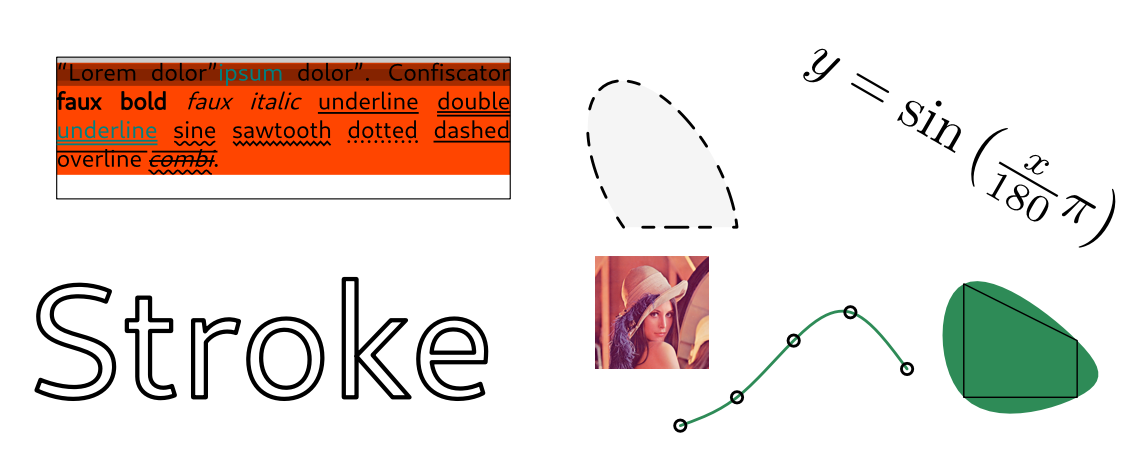
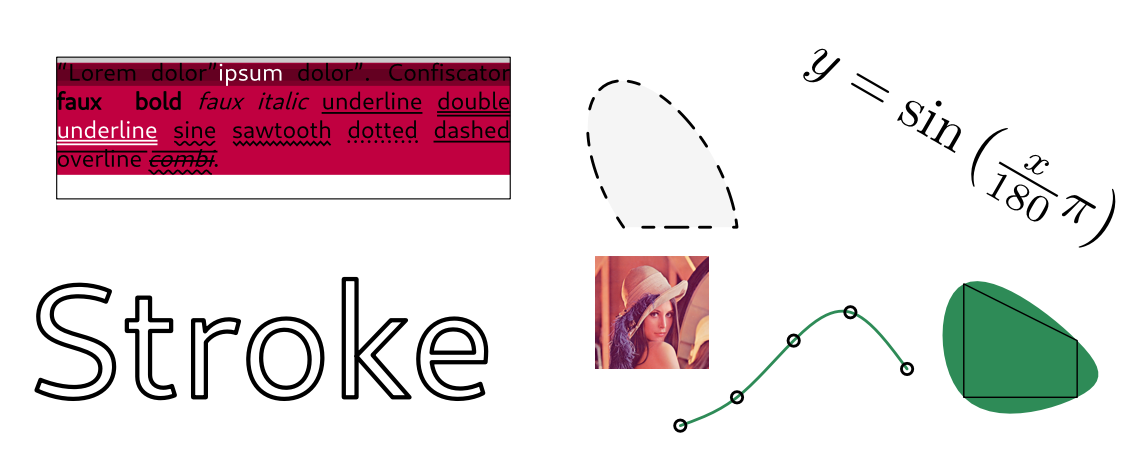
Small improvements, added title image

Changed region(s): [[0.0309, 0.1233, 0.463, 0.4009]]

diff --git a/text.go b/text.go
@@ -55,7 +55,6 @@ type Text struct {
 }
 
 func NewTextLine(ff FontFace, s string, halign TextAlign) *Text {
-	// TODO: use halign
 	s = replaceMultipleWhitespace(s)
 	s, _, _ = ff.font.substituteTypography(s, false, false)
 
@@ -69,9 +68,16 @@ func NewTextLine(ff FontFace, s string, halign TextAlign) *Text {
 			j := boundary.pos + boundary.size
 			if i < j {
 				l := line{y: y}
-				l.spans = append(l.spans, newTextSpan(ff, s, i))
+				span := newTextSpan(ff, s, i)
+				if halign == Center {
+					span.dx = -span.width / 2.0
+				} else if halign == Right {
+					span.dx = -span.width
+				}
+
+				l.spans = append(l.spans, span)
 				if len(ff.deco) != 0 {
-					l.decos = append(l.decos, decoSpan{ff, 0.0, l.spans[0].width})
+					l.decos = append(l.decos, decoSpan{ff, span.dx, span.dx + span.width})
 				}
 				lines = append(lines, l)
 			}
@@ -95,7 +101,6 @@ type RichText struct {
 }
 
 func NewRichText() *RichText {
-	// TODO: allow for default font and use font face modifiers (color, style, faux style, decorations)
 	return &RichText{
 		fonts: map[*Font]bool{},
 	}
@@ -556,7 +561,6 @@ func (t *Text) WriteSVG(w io.Writer, x, y, rot float64) {
 	decorations := []pathLayer{}
 	for _, line := range t.lines {
 		for _, span := range line.spans {
-			// TODO: sentence spacing
 			fmt.Fprintf(w, `<tspan x="%g" y="%g`, x+span.dx, y-line.y-span.ff.voffset)
 			if span.wordSpacing > 0.0 {
 				fmt.Fprintf(w, `" word-spacing="%g`, span.wordSpacing)
@@ -582,10 +586,7 @@ func (t *Text) WriteSVG(w io.Writer, x, y, rot float64) {
 }
 
 // WritePDF will write out the text in the PDF file format.
-func (t *Text) WritePDF(w *PDFPageWriter, m Matrix) {
-	x0, y0 := m.DecomposePos()
-	rot := m.DecomposeRot()
-
+func (t *Text) WritePDF(w *PDFPageWriter, x0, y0, rot float64) {
 	// TODO: use PDF functions to keep track of current state (different from state outsite BT)
 
 	fmt.Fprintf(w, ` BT`)
@@ -667,7 +668,6 @@ func (t *Text) WritePDF(w *PDFPageWriter, m Matrix) {
 }
 
 // TODO: Text.WriteEPS
-// TODO: Text.WriteImage
 
 ////////////////////////////////////////////////////////////////
 
@@ -695,7 +695,6 @@ type textSpan struct {
 
 // TODO: add newPathSpan
 
-// TODO: proper transformation of typographic elements, ie. including surrounding text
 func newTextSpan(ff FontFace, text string, i int) textSpan {
 	altText := text[i:]
 	altWidth := ff.TextWidth(text[i:])
@@ -931,7 +930,6 @@ func isNewline(r rune) bool {
 }
 
 func isWhitespace(r rune) bool {
-	// TODO: add breaking spaces such as en quad, em space, hair space, ...
 	// see https://unicode.org/reports/tr14/#Properties
-	return r == ' ' || r == '\t' || isNewline(r)
+	return unicode.IsSpace(r) || r == '\t' || r == '\u2028' || r == '\u2029'
 }

diff --git a/example/test.go b/example/test.go
@@ -14,7 +14,7 @@ var dejaVuSerif *canvas.FontFamily
 func main() {
 	dejaVuSerif = canvas.NewFontFamily("dejavu-serif")
 	dejaVuSerif.Use(canvas.CommonLigatures)
-	if err := dejaVuSerif.LoadFontFile("DejaVuSerif.woff", canvas.FontRegular); err != nil {
+	if err := dejaVuSerif.LoadFontFile("DejaVuSerif.ttf", canvas.FontRegular); err != nil {
 		panic(err)
 	}
 
@@ -75,10 +75,10 @@ func drawStrokedPath(c *canvas.Canvas, x, y, d float64, path string) {
 }
 
 func Draw(c *canvas.Canvas) {
-	p, _ := canvas.ParseSVG(fmt.Sprintf("A30.0 60.0 120.0 0 0 120.0 0.0H60"))
-	f := p.Flatten().Stroke(1.0, canvas.ButtCapper, canvas.MiterJoiner)
-	c.SetFillColor(color.RGBA{0, 0, 128, 128})
-	c.DrawPath(10.0, 10.0, f)
+	//p, _ := canvas.ParseSVG(fmt.Sprintf("A30.0 60.0 120.0 0 0 120.0 0.0H60"))
+	//f := p.Flatten().Stroke(1.0, canvas.ButtCapper, canvas.MiterJoiner)
+	//c.SetFillColor(color.RGBA{0, 0, 128, 128})
+	//c.DrawPath(10.0, 10.0, f)
 
 	//c.SetFillColor(color.RGBA{0, 128, 0, 128})
 	//for _, marker := range p.Markers(canvas.Rectangle(-2, -2, 4, 4), canvas.Circle(2), canvas.RegularPolygon(6, 2, true), true) {
@@ -182,8 +182,8 @@ func Draw(c *canvas.Canvas) {
 	//c.DrawPath(10, 70, 0.0, text.ToPath().Scale(2.0, 2.0))
 	//c.DrawPath(10, 70, 0.0, text.ToPathDecorations().Scale(2.0, 2.0))
 
-	//face := dejaVuSerif.Face(12.0, canvas.Black, canvas.FontBook, canvas.FontNormal)
-	//c.DrawText(10, 10, canvas.NewTextLine(face, "oops", canvas.Left))
-	//face = dejaVuSerif.Face(12.0, canvas.Black, canvas.FontRegular, canvas.FontNormal)
-	//c.DrawText(40, 10, canvas.NewTextLine(face, "oops", canvas.Left))
+	face := dejaVuSerif.Face(12.0, canvas.Black, canvas.FontBook, canvas.FontNormal, canvas.FontUnderline)
+	c.DrawText(40, 15, canvas.NewTextLine(face, "oops", canvas.Left))
+	face = dejaVuSerif.Face(12.0, canvas.Black, canvas.FontRegular, canvas.FontNormal, canvas.FontUnderline)
+	c.DrawText(40, 10, canvas.NewTextLine(face, "oops", canvas.Center))
 }

diff --git a/example/example.go b/example/example.go
@@ -75,7 +75,7 @@ func drawText(c *canvas.Canvas, x, y float64, face canvas.FontFace, rich *canvas
 
 	text := rich.ToText(width, height, canvas.Justify, canvas.Top, 0.0, 0.0)
 
-	c.SetFillColor(canvas.Orangered)
+	c.SetFillColor(color.RGBA{192, 0, 64, 255})
 	c.DrawPath(x, y, text.Bounds().ToPath())
 	c.SetFillColor(color.RGBA{0, 0, 0, 50})
 	c.DrawPath(x, y, canvas.Rectangle(0, 0, width, -metrics.LineHeight))
@@ -93,17 +93,17 @@ func Draw(c *canvas.Canvas) {
 	rich := canvas.NewRichText()
 	rich.Add(face, "\"Lorem ")
 	rich.Add(face, " dolor\"")
-	rich.Add(dejaVuSerif.Face(12.0, canvas.Teal, canvas.FontRegular, canvas.FontNormal), "ipsum")
+	rich.Add(dejaVuSerif.Face(12.0, canvas.White, canvas.FontRegular, canvas.FontNormal), "ipsum")
 	rich.Add(face, " dolor\"")
 	rich.Add(face, ". Confiscator")
-	rich.Add(dejaVuSerif.Face(12.0, canvas.Black, canvas.FontBold, canvas.FontNormal), " faux bold")
+	rich.Add(dejaVuSerif.Face(12.0, canvas.Black, canvas.FontBold, canvas.FontNormal), "\u2003faux\u2003bold")
 	rich.Add(face, " ")
 	rich.Add(dejaVuSerif.Face(12.0, canvas.Black, canvas.FontItalic, canvas.FontNormal), "faux italic")
 	rich.Add(face, " ")
 	rich.Add(dejaVuSerif.Face(12.0, canvas.Black, canvas.FontRegular, canvas.FontNormal, canvas.FontUnderline), "underline")
 	rich.Add(face, " ")
 	rich.Add(dejaVuSerif.Face(12.0, canvas.Black, canvas.FontRegular, canvas.FontNormal, canvas.FontDoubleUnderline), "double ")
-	rich.Add(dejaVuSerif.Face(12.0, canvas.Teal, canvas.FontRegular, canvas.FontNormal, canvas.FontDoubleUnderline), "underline")
+	rich.Add(dejaVuSerif.Face(12.0, canvas.White, canvas.FontRegular, canvas.FontNormal, canvas.FontDoubleUnderline), "underline")
 	rich.Add(face, " ")
 	rich.Add(dejaVuSerif.Face(12.0, canvas.Black, canvas.FontRegular, canvas.FontNormal, canvas.FontSineUnderline), "sine")
 	rich.Add(face, " ")

diff --git a/fontface.go b/fontface.go
@@ -88,7 +88,6 @@ func (family *FontFamily) Use(options TypographicOptions) {
 
 // Face gets the font face given by the font size (in pt).
 func (family *FontFamily) Face(size float64, col color.Color, style FontStyle, variant FontVariant, deco ...FontDecorator) FontFace {
-	// TODO: add hinting
 	size *= MmPerPt
 
 	scale := 1.0
@@ -155,7 +154,6 @@ func (family *FontFamily) Face(size float64, col color.Color, style FontStyle, v
 type FontFace struct {
 	family *FontFamily
 	font   *Font
-	// TODO: font hinting when rasterizing
 
 	size    float64
 	style   FontStyle
@@ -256,7 +254,6 @@ func (ff FontFace) Decorate(width float64) *Path {
 
 // ToPath converts a string to a path and also returns its advance in mm.
 func (ff FontFace) ToPath(s string) (*Path, float64) {
-	// TODO: use caching if performance suffers
 	p := &Path{}
 	x := 0.0
 	var prevIndex sfnt.GlyphIndex

diff --git a/canvas.go b/canvas.go
@@ -498,7 +498,9 @@ func (l textLayer) WriteSVG(w io.Writer, h float64) {
 }
 
 func (l textLayer) WritePDF(w *PDFPageWriter) {
-	l.Text.WritePDF(w, l.viewport)
+	x, y := l.viewport.DecomposePos()
+	rot := l.viewport.DecomposeRot()
+	l.Text.WritePDF(w, x, y, rot)
 }
 
 func (l textLayer) WriteEPS(w *EPSWriter) {
@@ -512,6 +514,7 @@ func (l textLayer) WriteEPS(w *EPSWriter) {
 }
 
 func (l textLayer) WriteImage(img *image.RGBA, dpm float64) {
+	//l.Text.WriteImage(img, dpm)
 	paths, colors := l.ToPaths()
 	for i, path := range paths {
 		state := defaultDrawState

diff --git a/pdf.go b/pdf.go
@@ -226,10 +226,10 @@ func (w *PDFWriter) getFont(font *Font) PDFRef {
 				"Flags":       4,
 				"FontBBox":    PDFArray{0.0, 0.0, 0.0, 0.0},
 				"ItalicAngle": 0,
-				"Ascent":      0,
+				"Ascent":      0, // not used since it's embedded in a Type 1 font?
 				"Descent":     0,
 				"CapHeight":   0,
-				"StemV":       0, // TODO: set value, sometimes the i or b look ugly
+				"StemV":       0,
 				"FontFile3":   fontfileRef,
 			},
 		}},

diff --git a/README.md b/README.md
@@ -1,6 +1,6 @@
 # Canvas <a name="canvas"></a> [![GoDoc](http://godoc.org/github.com/tdewolff/canvas?status.svg)](http://godoc.org/github.com/tdewolff/canvas)
 
-TODO: make title image
+![Canvas](https://raw.githubusercontent.com/tdewolff/canvas/master/example/title.png)
 
 Canvas is a common vector drawing target that can output SVG, PDF, EPS and raster images (which can be saved as PNG, JPG, ...). It can parse SVG path data or LaTeX into paths and has a wide range of path manipulation functionality (such as flattening, stroking and dashing). Text can be displayed using embedded fonts (TTF, OTF or WOFF) or by converting them to outlines and can be aligned and indented within a rectangle (see Fig. 1 below).
 
